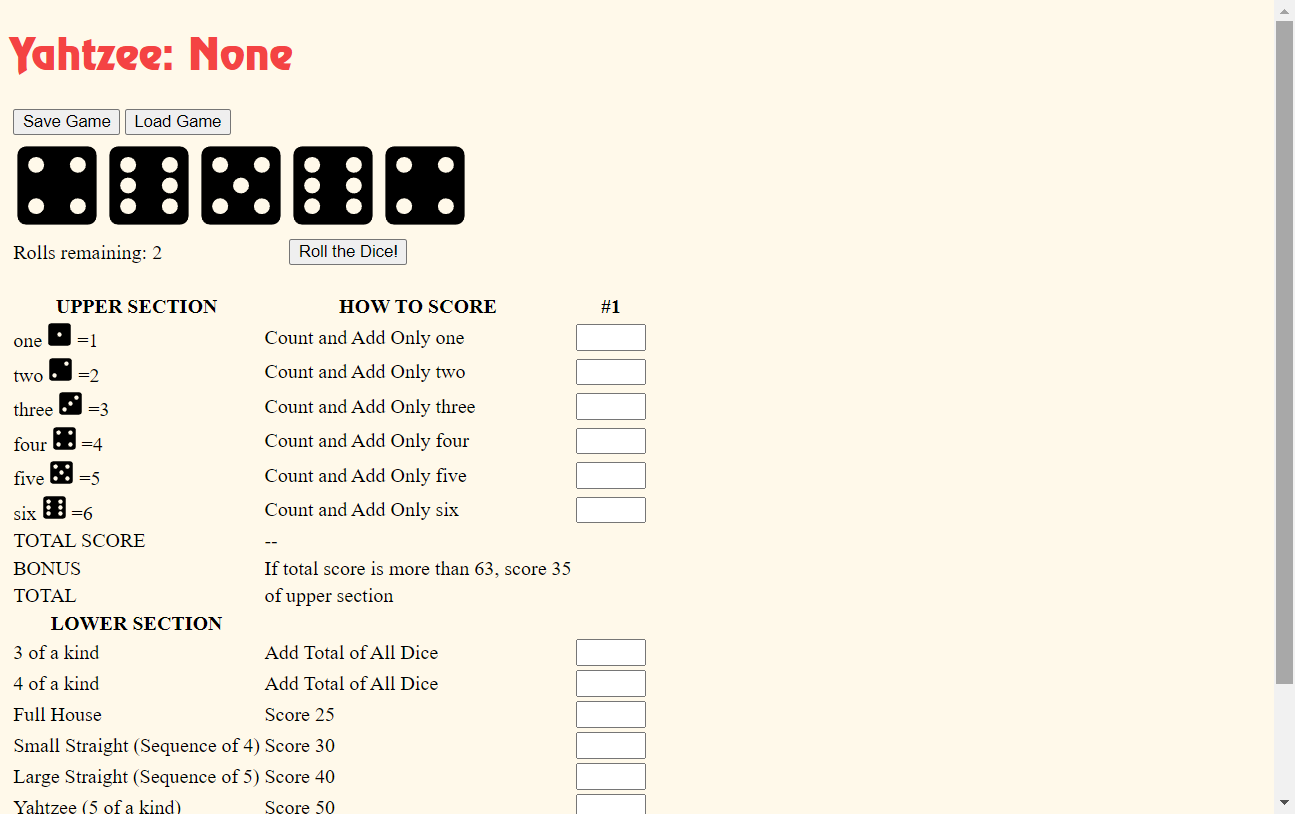
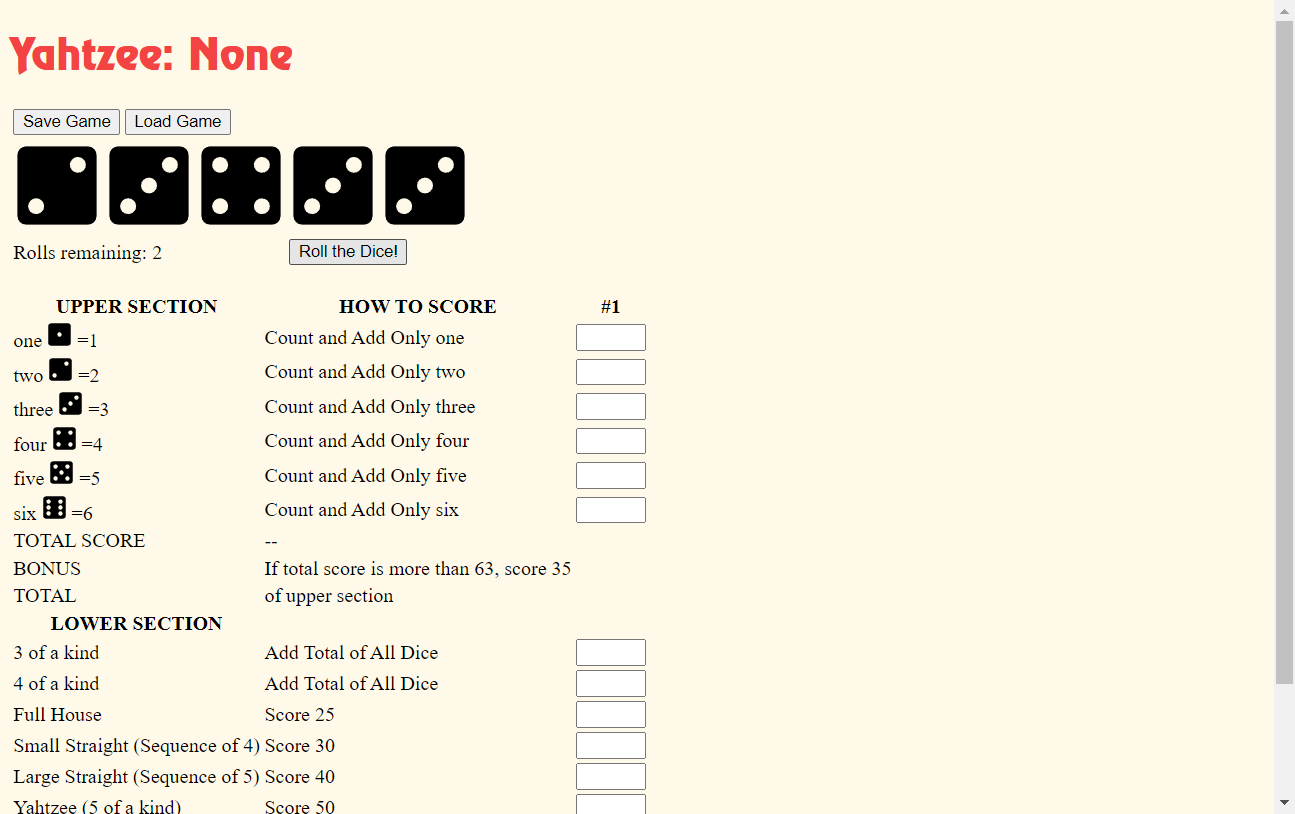
9/18 only roll is failing

diff --git a/yahtzee/static/js/Dice.js b/yahtzee/static/js/Dice.js
@@ -79,6 +79,8 @@ class Dice{
      * <br> Uses this.set to update dice
     */
     roll(){ 
+        //🆘🆘🆘🆘🆘🆘ONLY ROLL IS FAILING!
+
         // Changes rolls remaining
         let rolls_remaining = this.rolls_remaining_element.textContent;
         let done_rolling = false;
@@ -127,9 +129,10 @@ class Dice{
      * @param {Object} element the <img> element representing the die to reserve
     */
     reserve(die_element){
-        console.log(die_element);
-        die_element.classList.toggle("reserved");
-        //CANT RESERVE BLANK DIE🆘 etc
+        console.log(die_element.src);
+        if (die_element.src.includes("blank") == false){
+            die_element.classList.toggle("reserved");
+        }
     }
 
     /**
